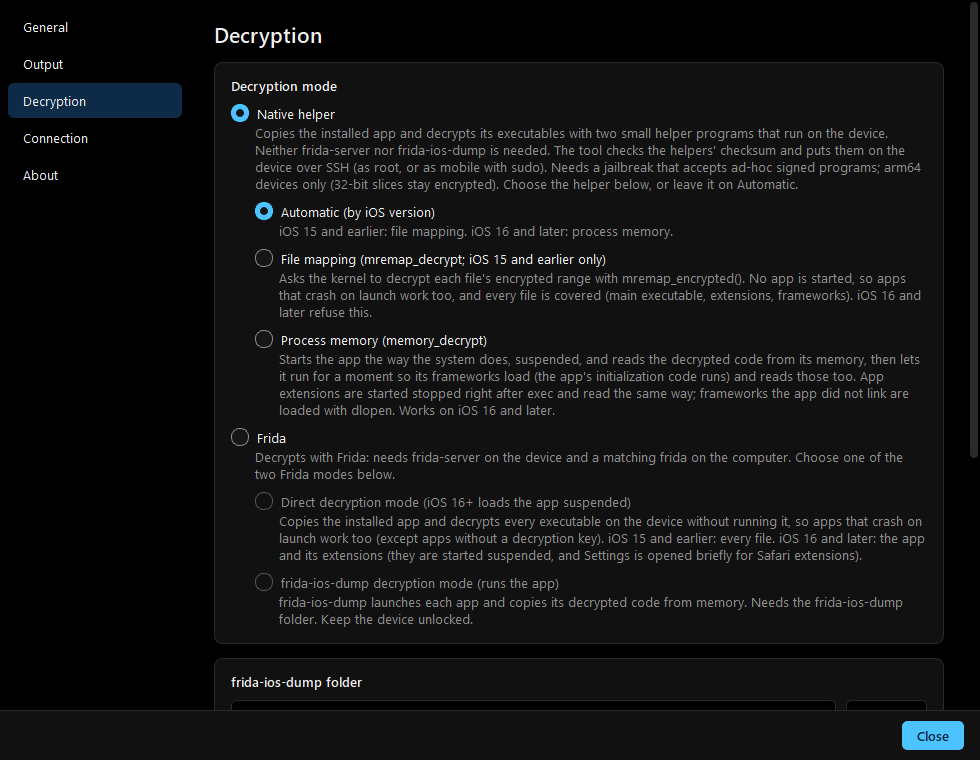
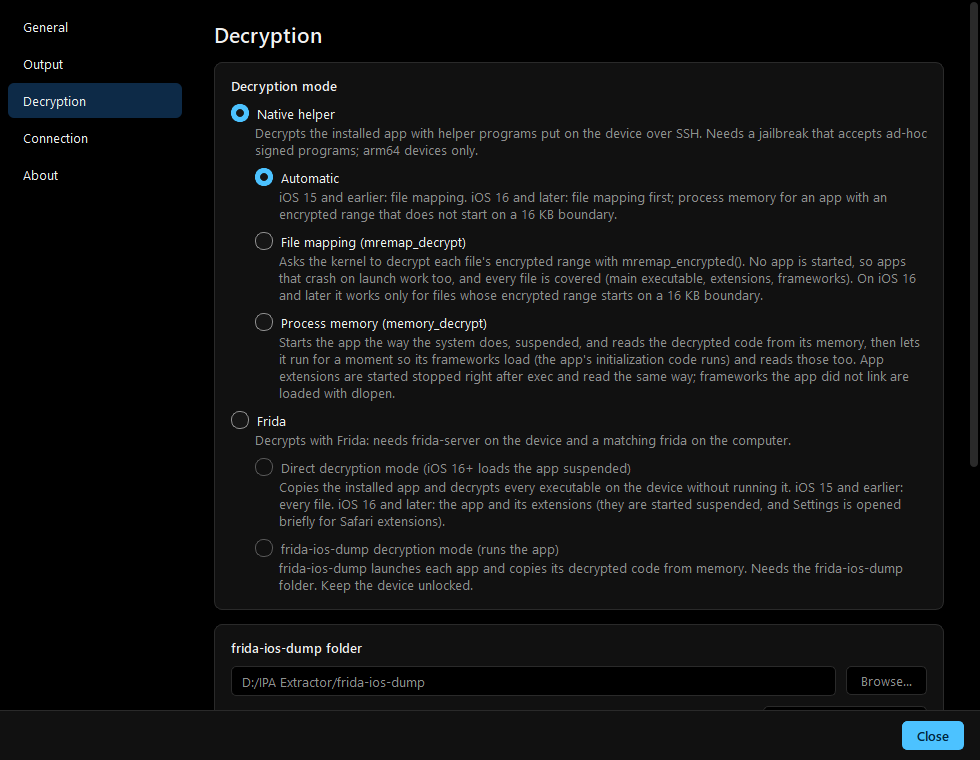
Update screenshots and limitation description in README
- Retake the Settings screenshot
- Fix the launch-crash limitation

Changed region(s): [[0.2143, 0.1513, 0.949, 0.9079], [0.7653, 0.8776, 0.949, 0.9382], [0.9796, 0.6053, 1.0, 0.6355]]

diff --git a/README.md b/README.md
@@ -215,7 +215,7 @@ The SSH password comes from `--password`, the `IPA_PASSWORD` variable, the saved
 - **iOS 16 and later** refuse the old way of using `mremap_encrypted`. File mapping still works there for files whose encrypted range starts on a 16 KB boundary; for the others only code the system itself loads can be read (*Automatic* does that for such an app): the app's executable and its extensions (started suspended). Encrypted frameworks are decrypted by loading them into the app, which is let start without showing its UI. Watch apps, 32-bit slices and extensions that need a newer iOS stay encrypted. The app must have been installed with the device's own Apple ID; IPAs with files left encrypted are named `partial-decrypted`, and the log lists each file and why.
 - **iOS 8 and other old devices (frida 12).** `frida-server` 12.x needs `frida` 12.x on the computer, which has no wheel for current Pythons: on Windows x64 the tool installs it with its own embeddable Python 3.8. Only *Direct decryption mode* works with it. Old SSH servers that only offer an `ssh-rsa` host key are accepted. Slices older than the one the device runs (armv6 or armv7 on a 64-bit device) are refused by the kernel and stay encrypted; the app still works.
 - **Native helper.** The helpers are arm64 programs: devices that run only 32-bit code are not supported. They need a jailbreak that accepts ad-hoc signed programs with entitlements. *File mapping* (`mremap_decrypt`) covers every file and starts nothing; iOS 16 and later accept it only for files whose encrypted range starts on a 16 KB boundary; with *Automatic* an app that has any other file is read from memory instead, and when you choose *File mapping* yourself the files it cannot do stay encrypted (the log names each one and why). *Process memory* (`memory_decrypt`) starts the app suspended, reads the main executable before any of its code runs, lets the app run for a moment so its frameworks load, and loads the others with `dlopen` (not for arm64e apps). See `helpers/README.md`.
-- Apps that crash on launch can only be decrypted with *Native helper* (file mapping) or *Direct decryption mode*; with frida-ios-dump, extract the original IPA instead.
+- Apps that crash on launch cannot be decrypted by the modes that run the app (*Process memory*, frida-ios-dump); use *File mapping* where it can decrypt the app, or extract the original IPA instead.
 - On iOS 16 and later, frida-server 17 sometimes crashes while it holds an extension suspended. With *Restart frida-server and retry on errors* the tool restarts it and tries the affected files again (up to three more times, while that gets further); either way it lets go of whatever the crashed frida-server held suspended. Killing or stopping frida-server by hand many times in a row has left a device unable to start services until it was restarted.
 
 ## Adding a language
